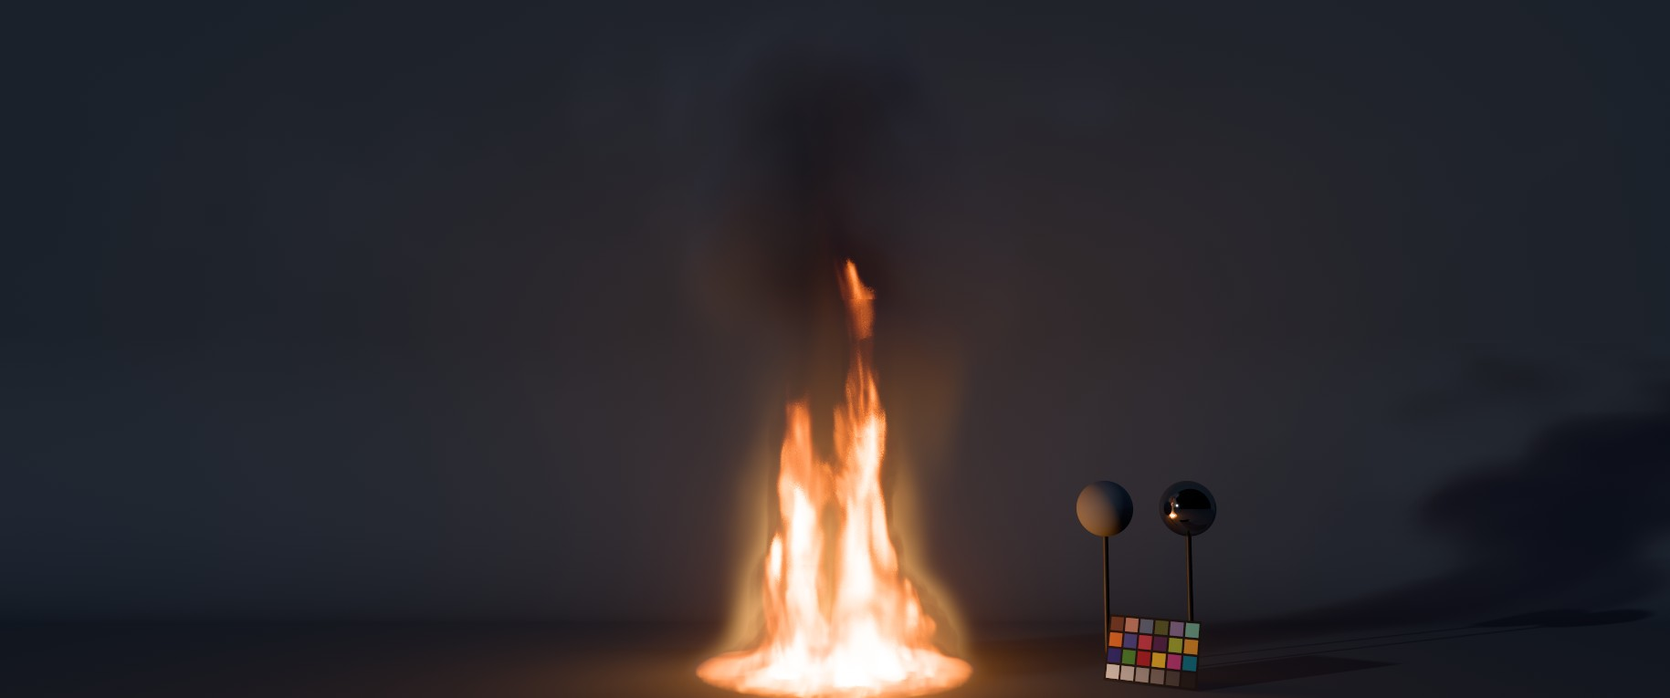
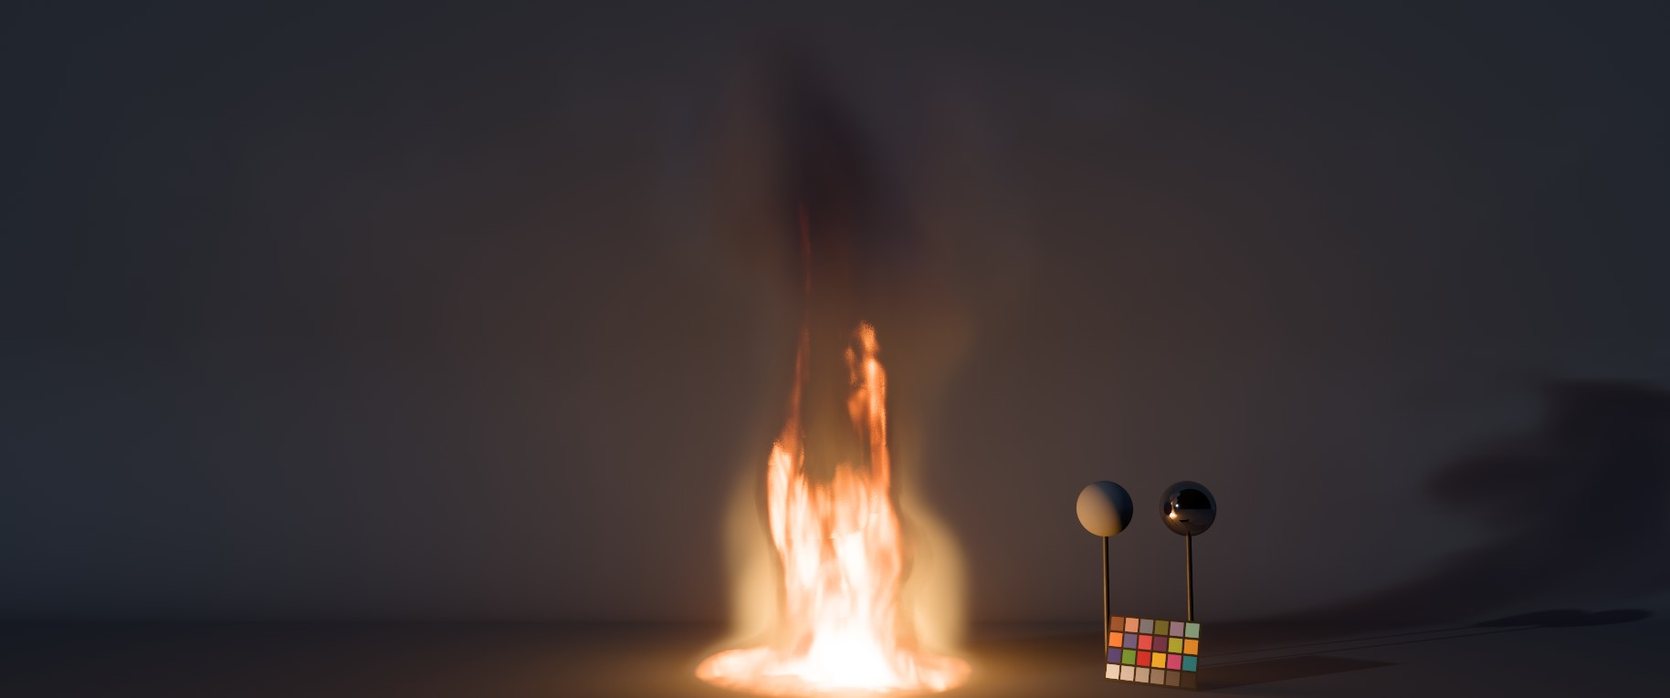
Pyro lab: the flames' scattered light leaves their soot by its own table
The floor beside a bonfire took a third less light scattered by the gas than the path-traced reference gives it.
Split by source (a new reference trace, fire light only, with and without scattering in the gas), nine tenths of
that light is the fire's own, and almost none of it the smoke's: a pass gathering the light the smoke and soot beyond
the flames scatter onto the floor (32 rays from each point of a floor map, through the light volume) added 1% beside
the fire, and was dropped. What was short is the flames' own scattering. Light the soot scatters starts where the
soot stopped it, nearer its edge than the flames that made it, and gets out more easily and more evenly; the live
render let it out as the flames' own light gets out.

The fire sums now march a second table beside the escape table, from the same rays: the share of the light the soot
stops along each way that gets out from where it stopped, onward along the same line, tau e^-tau / (1 - e^-tau). The
light leaving a slice toward a point is its escape that way, plus the scattered share (by the similarity relation's
albedo, a (1 - g) / (1 - a g), of what the soot stops, 1 - the escape table's mean) times the second table that way,
over 1 - albedo (1 - the second table's mean) for the scattering again.

Against the reference, the bonfire's frame by region, preview -49 -> now (the last commit before that in brackets):
[…]

Changed region(s): [[0.374, 0.3007, 0.7168, 1.0], [0.6233, 0.6915, 0.7168, 0.7817], [0.4363, 0.1804, 0.4675, 0.2706]]

diff --git a/components/PyroLab.tsx b/components/PyroLab.tsx
@@ -66,7 +66,7 @@ const TECH_NOTES: [string, string][] = [
   ],
   [
     'Flames',
-    'Most of a fire’s light is its soot’s glow. Hot soot emits what it absorbs times the blackbody radiance of its temperature (Kirchhoff’s law), so a flame’s colour and brightness follow from the simulated temperature and soot alone: Planck’s law through the CIE colour matching functions, in absolute units (a blackbody at 2042 K comes out at 600,000 cd/m², the old definition of the candle). The colours are worked in ACEScg, whose primaries hold a blackbody’s colour at every temperature a flame reaches, where Rec.709’s lose its blue below about 1900 K. The soot’s extinction is the measured 8.7 m²/g of flame smoke and its albedo 0.25, and it absorbs blue more than red (as 1/λ), so it reddens what shines through it. Below about 1000 K its glow is too faint to see, which is where the visible flame ends. A cell’s temperature is an average, and a blackbody’s glow climbs so steeply with temperature that the average glow is far from the glow at the average temperature (the turbulence-radiation interaction), so the renderer adds the temperature fluctuation finer than the grid: its size from the resolved temperature gradient, as large-eddy simulations model a subgrid variance (Pierce and Moin), only its shape from a noise that rises with the flames and churns (Flame detail scales it; 0 renders the cell averages). For the same reason, where fuel is burning the soot radiates at the temperature of the flame sheet it forms in, about 1400 K, rather than its cell’s mean: the burning happens in sheets far thinner than a cell, and the cell spreads their heat over all of it (a thin flame along a burning surface would otherwise never glow). The burning gives off light of its own too: molecules formed excited in the reactions give it up as CH’s blue at 431 nm, C2’s green Swan bands and a faint CO2 continuum (chemiluminescence), in proportion to the heat released. It is the blue of a gas flame, about a ten-thousandth of a lumen per watt of heat (an estimate: no measurement of it turned up), far fainter than glowing soot, so it shows only where there is no soot yet. And soot takes some 20 ms in the hot gas to form (Kumfer, Skeen and Axelbaum), so where burning has only begun, at the flame’s base, the gas is still clear. A wood fire’s soot hides nearly all of the blue at the grid’s scale; a fuel that makes no soot burns all blue (the Alcohol fire), too dim to see in daylight, as alcohol fires are. The fire lights its own smoke, the floor and everything near it: its emitted light is summed on the GPU every step in eight slices of its height, each a point light at its brightness-weighted centre, and each point of the smoke gathers them through the soot in the way, so dense smoke shadows the fire’s light as it does the sun’s; the floor and the balls take the same shadow. The light is summed as the flames are drawn, from the interpolated gas at eight points in each cell rather than each cell’s own temperature: the glow climbs so steeply with temperature that the hottest cells, at the bed, gave several times the light the flames show (the path-traced reference found it). Within a slice, its soot is mixed with its own glow, and how much of the glow gets out depends on the way it goes: every glowing cell’s light is marched a bed’s width through the soot about it toward 26 directions over the sphere (a quarter of them each step), and the shares, weighted by each cell’s light, make a table the smoke, the floor and the set each read in their own direction. A bonfire’s brightest flames sit in a sheet of soot at its bed, and let out two to three times as much of their light a little below the level as along it. Of what the soot stops it scatters a share, mostly onward (the albedo and the anisotropy), and that light gets out as the rest does. Glowing soot also scatters its own glow: where it is thick the light about it nears its blackbody radiance, so a thick flame glows at the full radiance whatever its albedo (Kirchhoff’s law), where it glowed only the share its soot does not scatter (the bonfire’s flames, a fifth dark against the path-traced reference).',
+    'Most of a fire’s light is its soot’s glow. Hot soot emits what it absorbs times the blackbody radiance of its temperature (Kirchhoff’s law), so a flame’s colour and brightness follow from the simulated temperature and soot alone: Planck’s law through the CIE colour matching functions, in absolute units (a blackbody at 2042 K comes out at 600,000 cd/m², the old definition of the candle). The colours are worked in ACEScg, whose primaries hold a blackbody’s colour at every temperature a flame reaches, where Rec.709’s lose its blue below about 1900 K. The soot’s extinction is the measured 8.7 m²/g of flame smoke and its albedo 0.25, and it absorbs blue more than red (as 1/λ), so it reddens what shines through it. Below about 1000 K its glow is too faint to see, which is where the visible flame ends. A cell’s temperature is an average, and a blackbody’s glow climbs so steeply with temperature that the average glow is far from the glow at the average temperature (the turbulence-radiation interaction), so the renderer adds the temperature fluctuation finer than the grid: its size from the resolved temperature gradient, as large-eddy simulations model a subgrid variance (Pierce and Moin), only its shape from a noise that rises with the flames and churns (Flame detail scales it; 0 renders the cell averages). For the same reason, where fuel is burning the soot radiates at the temperature of the flame sheet it forms in, about 1400 K, rather than its cell’s mean: the burning happens in sheets far thinner than a cell, and the cell spreads their heat over all of it (a thin flame along a burning surface would otherwise never glow). The burning gives off light of its own too: molecules formed excited in the reactions give it up as CH’s blue at 431 nm, C2’s green Swan bands and a faint CO2 continuum (chemiluminescence), in proportion to the heat released. It is the blue of a gas flame, about a ten-thousandth of a lumen per watt of heat (an estimate: no measurement of it turned up), far fainter than glowing soot, so it shows only where there is no soot yet. And soot takes some 20 ms in the hot gas to form (Kumfer, Skeen and Axelbaum), so where burning has only begun, at the flame’s base, the gas is still clear. A wood fire’s soot hides nearly all of the blue at the grid’s scale; a fuel that makes no soot burns all blue (the Alcohol fire), too dim to see in daylight, as alcohol fires are. The fire lights its own smoke, the floor and everything near it: its emitted light is summed on the GPU every step in eight slices of its height, each a point light at its brightness-weighted centre, and each point of the smoke gathers them through the soot in the way, so dense smoke shadows the fire’s light as it does the sun’s; the floor and the balls take the same shadow. The light is summed as the flames are drawn, from the interpolated gas at eight points in each cell rather than each cell’s own temperature: the glow climbs so steeply with temperature that the hottest cells, at the bed, gave several times the light the flames show (the path-traced reference found it). Within a slice, its soot is mixed with its own glow, and how much of the glow gets out depends on the way it goes: every glowing cell’s light is marched a bed’s width through the soot about it toward 26 directions over the sphere (a quarter of them each step), and the shares, weighted by each cell’s light, make a table the smoke, the floor and the set each read in their own direction. A bonfire’s brightest flames sit in a sheet of soot at its bed, and let out two to three times as much of their light a little below the level as along it. Of what the soot stops it scatters a share, mostly onward (the albedo and the anisotropy); the rest, scattered every way from where it was stopped, starts nearer the soot’s edge than the flames that made it, and gets out more easily and more evenly, by a second table marched with the first. Glowing soot also scatters its own glow: where it is thick the light about it nears its blackbody radiance, so a thick flame glows at the full radiance whatever its albedo (Kirchhoff’s law), where it glowed only the share its soot does not scatter (the bonfire’s flames, a fifth dark against the path-traced reference).',
   ],
   [
     'Detail',
@@ -103,7 +103,7 @@ const TECH_NOTES: [string, string][] = [
   ],
   [
     'Path-traced reference',
-    'Paused, the Path trace button traces the same frame with its light carried exactly, one path a pixel each frame, averaged, behind a wipe against the live render (drag it). The gas is the live render’s own, step for step: its density, detail and subgrid flame temperature, the soot formed by now and the flame’s blue light, each path at its own moment of the shutter. What the reference carries exactly is what the live render takes shortcuts with: light scattered any number of times through the smoke (the live render folds multiple scattering into octaves of the sun’s light); the fire’s light from the flames themselves, shadowed by the smoke on the way (the live render’s is eight point lights through a light volume at half resolution); the sky through the smoke in every direction (not only straight up); an HDR map in full (not nine spherical harmonics). At every scattering and surface a path samples the sun’s disc, a map’s key or the rig’s softboxes, and the flames: a point drawn in one of eight slices of the fire’s height by its light, chosen from eight candidates in proportion to what each would bring (resampled importance sampling, after Talbot, Cline and Egbert). Paths end by Russian roulette, and the reference stops at 4,096 paths a pixel. The surfaces are the live render’s materials, simplified (the chrome ball a mirror, the rest a matte base under a glossy layer). Checked with it, the live render’s fire light is now within about 45% of the reference’s across the presets (an oil fire in daylight within 15%; a campfire’s smoke and floor up to 45% darker), where it was up to seven times too bright. The smoke lit by the sun was 30 to 60% too bright, dark smoke the most, from the octaves, which added the same three quarters again to thin smoke as to thick and to soot as to steam. Split by where the light comes from (the reference can leave out the floor, the sky or the sun, or keep only light scattered once), the smoke’s light showed four more gaps. Its shadows came from the coarse grid while the camera saw the finer upres smoke, so the densest smoke caught a third too much sun. The sky came through the depth straight up only, so the middle of a plume took a fifth too much and the smoke under its cap a third too little. And the sky’s light scattered more than once (5 to 10% of a plume’s light) and the floor’s (1 to 9%) were missing. With those fixed and the octaves fitted to plumes of albedo 0.2, 0.6 and 0.95, a plume’s thin edges are within 8% of the reference, where they were 10% short, and the error over the smoke presets falls by half to 70%. On the bonfire, with scattering in the gas left out of both, the live flames’ glow matched the reference’s; what they lacked was the light their soot scatters of its own glow, and the cyc’s floor took the whole sky though the wall hides half of it, and no light from the wall. With those in, the bonfire’s flames are within 2% of the reference and its cyc within 5%, where they were 20% and 10% short, and its far floor, a fifth too bright, is within 5%. The wall behind the fire was a sixth dark from a shadow taken along the wrong line, straight up through the plume above the flames; with that fixed, every part of the bonfire’s frame is within 8% of the reference. Taken apart, though, its fire’s direct light ran half again too strong, a sooty flame letting out less of its light than the uniformly glowing sphere the live render took it for, while the glow its soot scatters out was missing, and on its wall and floor the two offset. Checked slice by slice against every glowing cell’s light marched through the soot to each point, the sphere let out 1.7 times a bonfire’s light and six times an oil fire’s; the table of directions is within a tenth. Against the reference, the bonfire’s direct light on its surfaces is now some 15% short where it was half again over, and with scattering in the gas left out of both, every part of its frame is within 9%. With it in, every part is within 9% too (within 8% while the two errors offset), the light the soot scatters onto the floor beside the fire still a third short. A campfire’s surfaces, a quarter dark in the whole frame, are within 15%: what was left short on one side is the floor right beside its bed, where its flames sit to one side of each slice’s centre, which a point light per slice cannot follow. A fire in wind’s error falls by more than two thirds.',
+    'Paused, the Path trace button traces the same frame with its light carried exactly, one path a pixel each frame, averaged, behind a wipe against the live render (drag it). The gas is the live render’s own, step for step: its density, detail and subgrid flame temperature, the soot formed by now and the flame’s blue light, each path at its own moment of the shutter. What the reference carries exactly is what the live render takes shortcuts with: light scattered any number of times through the smoke (the live render folds multiple scattering into octaves of the sun’s light); the fire’s light from the flames themselves, shadowed by the smoke on the way (the live render’s is eight point lights through a light volume at half resolution); the sky through the smoke in every direction (not only straight up); an HDR map in full (not nine spherical harmonics). At every scattering and surface a path samples the sun’s disc, a map’s key or the rig’s softboxes, and the flames: a point drawn in one of eight slices of the fire’s height by its light, chosen from eight candidates in proportion to what each would bring (resampled importance sampling, after Talbot, Cline and Egbert). Paths end by Russian roulette, and the reference stops at 4,096 paths a pixel. The surfaces are the live render’s materials, simplified (the chrome ball a mirror, the rest a matte base under a glossy layer). Checked with it, the live render’s fire light is now within about 45% of the reference’s across the presets (an oil fire in daylight within 15%; a campfire’s smoke and floor up to 45% darker), where it was up to seven times too bright. The smoke lit by the sun was 30 to 60% too bright, dark smoke the most, from the octaves, which added the same three quarters again to thin smoke as to thick and to soot as to steam. Split by where the light comes from (the reference can leave out the floor, the sky or the sun, or keep only light scattered once), the smoke’s light showed four more gaps. Its shadows came from the coarse grid while the camera saw the finer upres smoke, so the densest smoke caught a third too much sun. The sky came through the depth straight up only, so the middle of a plume took a fifth too much and the smoke under its cap a third too little. And the sky’s light scattered more than once (5 to 10% of a plume’s light) and the floor’s (1 to 9%) were missing. With those fixed and the octaves fitted to plumes of albedo 0.2, 0.6 and 0.95, a plume’s thin edges are within 8% of the reference, where they were 10% short, and the error over the smoke presets falls by half to 70%. On the bonfire, with scattering in the gas left out of both, the live flames’ glow matched the reference’s; what they lacked was the light their soot scatters of its own glow, and the cyc’s floor took the whole sky though the wall hides half of it, and no light from the wall. With those in, the bonfire’s flames are within 2% of the reference and its cyc within 5%, where they were 20% and 10% short, and its far floor, a fifth too bright, is within 5%. The wall behind the fire was a sixth dark from a shadow taken along the wrong line, straight up through the plume above the flames; with that fixed, every part of the bonfire’s frame is within 8% of the reference. Taken apart, though, its fire’s direct light ran half again too strong, a sooty flame letting out less of its light than the uniformly glowing sphere the live render took it for, while the glow its soot scatters out was missing, and on its wall and floor the two offset. Checked slice by slice against every glowing cell’s light marched through the soot to each point, the sphere let out 1.7 times a bonfire’s light and six times an oil fire’s; the table of directions is within a tenth. Against the reference, the bonfire’s direct light on its surfaces is now some 15% short where it was half again over, and with scattering in the gas left out of both, every part of its frame is within 9%. Split by where it comes from, nine tenths of the light the gas scatters onto the floor beside the fire is the fire’s own, scattered by the flames’ soot rather than the smoke above; with that light leaving the soot as scattered light does, every part of the bonfire’s frame is within 6% (within 8% while the two errors offset). A campfire’s surfaces, a quarter dark in the whole frame, are within 15%: what was left short on one side is the floor right beside its bed, where its flames sit to one side of each slice’s centre, which a point light per slice cannot follow. A fire in wind’s error falls by more than two thirds.',
   ],
   [
     'Export',

diff --git a/components/pyro/wgsl.ts b/components/pyro/wgsl.ts
@@ -16,25 +16,27 @@ const ESCAPE_WEIGHTS = (() => {
   return m.map((_, i) => (m[Math.min(i + 1, m.length - 1)] - m[Math.max(i - 1, 0)]) / 4)
 })()
 
-// The share of slice b's light that gets out of its own soot toward p (bandOut), from the escape table in the fire's
+// The share of slice b's light that gets out of its own soot toward p (bandOut), from the escape tables in the fire's
 // sums (FIRE_SUM): read linearly in the sine of the elevation between the rings (and straight up and down), and in
 // azimuth between the eight by the diamond angle (|z| over |x| + |z| round the quadrants, exact at the eight and with
-// no inverse trigonometry: each surface reads the table sixteen times a pixel), with the light the soot scatters
-// back out. The soot scatters what it stops by its albedo, and mostly onward (the lab's anisotropy): by the similarity
-// relation the table counts the onward share as never stopped (FIRE_SUM), and the rest is scattered evenly every way,
-// at the albedo a (1 - g) / (1 - a g). Of the share the soot stops (1 - the table's mean over the sphere), that much
-// goes on and gets out as the rest did, and so on: 1 / (1 - albedo (1 - mean)) of the light all told. (Without the
-// scattering, the floor beside a bonfire took a third less light than the path-traced reference; taken as scattered
-// evenly, a sixth less; so, an eighth.) Within a bed's radius of the slice's centre, Beer's law over the share of it
-// crossed. (For the light pass, whose binding is fireSums, and the renderers, fireLight.)
+// no inverse trigonometry: each surface reads the tables thirty-two times a pixel). With the light the soot scatters
+// back out: it scatters what it stops by its albedo, and mostly onward (the lab's anisotropy). By the similarity
+// relation the escape table counts the onward share as never stopped (FIRE_SUM), and the rest is scattered evenly
+// every way, at the albedo a (1 - g) / (1 - a g). Of the share the soot stops (1 - the table's mean over the sphere),
+// that much is scattered from where it was stopped, and gets out by the second table, the share of such light that
+// leaves each way; what the soot stops of that, again, and so on: albedo (1 - mean) / (1 - albedo (1 - its mean)) of
+// the light, each way by the second table. (Scattered light starts nearer the soot's edge than the flames that made
+// it, and gets out more easily and more evenly. Let out as the flames' own light is, the floor beside a bonfire had
+// seven tenths of the scattered light the path-traced reference gives it, and the wall and smoke beside the fire were
+// 9% dark.) Within a bed's radius of the slice's centre, Beer's law over the share of it crossed. (For the light pass,
+// whose binding is fireSums, and the renderers, fireLight.)
 function bandOutWgsl(sums: string) {
   return /* wgsl */ `
 fn escTab(base: u32, k: u32) -> f32 { return ${sums}[base + k / 4u][k % 4u]; }
 fn escRing(base: u32, r: u32, a0: u32, a1: u32, fa: f32) -> f32 {
   return mix(escTab(base, 8u * r + a0), escTab(base, 8u * r + a1), fa);
 }
-fn bandEscape(b: u32, u: vec3<f32>) -> f32 {
-  let base = ESCAPE_BASE + ESCAPE_STRIDE * b;
+fn bandEscape(base: u32, u: vec3<f32>) -> f32 {
   let ax = abs(u.x);
   let az2 = abs(u.z);
   let q = select(az2 / (ax + az2), 0.0, ax + az2 < 1e-6);
@@ -58,8 +60,12 @@ fn bandOut(b: u32, p: vec3<f32>) -> f32 {
   let d = p - ${sums}[4u + 2u * b].xyz;
   let dist = max(length(d), 1e-6);
   let albedo = R.skyCol.w * (1.0 - R.sunDir.w) / max(1.0 - R.skyCol.w * R.sunDir.w, 1e-3);
-  let back = 1.0 / (1.0 - albedo * (1.0 - ${sums}[ESCAPE_BASE + ESCAPE_STRIDE * b + 6u].z));
-  let e = clamp(bandEscape(b, d / dist) * back, 1e-6, 1.0);
+  let base = ESCAPE_BASE + ESCAPE_STRIDE * b;
+  let base2 = ESCAPE_BASE2 + ESCAPE_STRIDE * b;
+  let mean = ${sums}[base + 6u].z;
+  let meanS = ${sums}[base2 + 6u].z;
+  let scat = albedo * (1.0 - mean) / (1.0 - albedo * (1.0 - meanS));
+  let e = clamp(bandEscape(base, d / dist) + scat * bandEscape(base2, d / dist), 1e-6, 1.0);
   let rad = max(P.src.w, 0.1);
   return select(e, pow(e, dist / rad), dist < rad);
 }
@@ -2107,8 +2113,9 @@ fn discVis(a: f32, pen: f32, miss: f32) -> f32 {
 // soot, over a bed's radius, toward each of ESCAPE_DIRS directions: rings at ESCAPE_RINGS degrees of elevation, each
 // toward eight azimuths from +x round toward +z (8 ring + azimuth), then straight up and straight down, and its mean
 // over the sphere. Seven entries of the sums per slice, after the slices' own: the rings, two entries each, then (up,
-// down, mean). (Four azimuths missed a flame sheet lying across the diagonal: the bonfire's light fell a fifth short on
-// one side of its cyc and a quarter over on the other.) A step marches a quarter of the directions, those of one
+// down, mean); the scattered light's table follows the slices' escape tables (ESCAPE_BASE2), laid out the same. (Four
+// azimuths missed a flame sheet lying across the diagonal: the bonfire's light fell a fifth short on one side of its
+// cyc and a quarter over on the other.) A step marches a quarter of the directions, those of one
 // component of every entry, in turn (ESCAPE_PHASES), and keeps the rest from the steps before: all of them every step
 // added some 1.6 ms, a quarter adds 0.4, and the share that gets out changes far more slowly than the flames flicker.
 const ESCAPE_DIRS = 26u;
@@ -2117,6 +2124,7 @@ const ESCAPE_RINGS = array<f32, 3>(${ESCAPE_RINGS.map(wf).join(', ')});
 const ESCAPE_SINES = array<f32, 3>(${ESCAPE_SINES.map(wf).join(', ')});
 const ESCAPE_BASE = 3u + 2u * FIRE_BANDS;
 const ESCAPE_STRIDE = 7u;
+const ESCAPE_BASE2 = 3u + 9u * FIRE_BANDS; // (the scattered light's table)
 fn escapeDir(k: u32) -> vec3<f32> {
   if (k == 24u) { return vec3<f32>(0.0, 1.0, 0.0); }
   if (k == 25u) { return vec3<f32>(0.0, -1.0, 0.0); }
@@ -2353,7 +2361,8 @@ export const FIRE_SUM_TOTAL = /* wgsl */ `
 @group(0) @binding(1) var<storage, read> partial: array<vec4<f32>>;
 // 0: the emitted intensity summed over cells, per unit of cell volume (rgb, and its luminance); 1: its centre; 2: the
 // bed's area (m2) and the heat release rate (W); then for each of FIRE_BANDS slices of the grid's height, its emitted
-// intensity (as 0) and its centre; then each slice's escape table, seven entries (RENDER_COMMON's ESCAPE_DIRS).
+// intensity (as 0) and its centre; then each slice's escape table, seven entries (RENDER_COMMON's ESCAPE_DIRS), and
+// then each slice's scattered light's table, the same.
 @group(0) @binding(2) var<storage, read_write> result: array<vec4<f32>>;
 const FIRE_BANDS = ${FIRE_BANDS}u;
 var<workgroup> sE: array<vec4<f32>, 256>;
@@ -2371,14 +2380,18 @@ fn main(@builtin(local_invocation_index) li: u32, @builtin(workgroup_id) wg: vec
   var b = vec4<f32>(0.0);
   var x0 = vec4<f32>(0.0);
   var x1 = vec4<f32>(0.0);
+  var x2 = vec4<f32>(0.0);
+  var x3 = vec4<f32>(0.0);
   let phase = u32(partial[1].w); // (the step's quarter of the escape table, as FIRE_SUM marched it)
   for (var k = li; k < C.x; k += 256u) {
     if (band >= 0 && i32(((k / C.y) % C.z) * FIRE_BANDS / C.z) != band) { continue; }
-    e += partial[5u * k];
-    p += partial[5u * k + 1u];
-    b += partial[5u * k + 2u];
-    x0 += partial[5u * k + 3u];
-    x1 += partial[5u * k + 4u];
+    e += partial[7u * k];
+    p += partial[7u * k + 1u];
+    b += partial[7u * k + 2u];
+    x0 += partial[7u * k + 3u];
+    x1 += partial[7u * k + 4u];
+    x2 += partial[7u * k + 5u];
+    x3 += partial[7u * k + 6u];
   }
   sE[li] = e;
   sP[li] = p;
@@ -2415,24 +2428,40 @@ fn main(@builtin(local_invocation_index) li: u32, @builtin(workgroup_id) wg: vec
     }
     workgroupBarrier();
   }
+  var marched = 0.0;
   if (li == 0u) {
     // This step's directions (k = 4 j + phase: component phase of each entry), over the light of the cells marched
     // (with none, as after a restart, when the last step's sums are another fire's, all of it gets out); then the
     // mean over the sphere from the whole table: each ring's eight azimuths averaged, weighted by the share of the
     // sphere it stands for.
-    let marched = sB[0].w;
-    let base = 3u + 2u * FIRE_BANDS + 7u * u32(band);
-    for (var j = 0u; j < 7u; j++) {
-      if (4u * j + phase < 26u) { // (RENDER_COMMON's ESCAPE_DIRS)
-        let v = select(sB[0][j % 4u], sP[0][j % 4u], j < 4u);
-        result[base + j][phase] = select(1.0, v / marched, marched > 0.0);
-      }
-    }
-    let w = array<f32, 5>(${ESCAPE_WEIGHTS.map(wf).join(', ')});
-    var mean = w[0] * result[base + 6u].y + w[4] * result[base + 6u].x;
-    for (var r = 0u; r < 3u; r++) { mean += w[r + 1u] * 0.125 * dot(result[base + 2u * r] + result[base + 2u * r + 1u], vec4<f32>(1.0)); }
-    result[base + 6u].z = mean;
+    marched = sB[0].w;
+    writeTable(3u + 2u * FIRE_BANDS + 7u * u32(band), phase, sP[0], sB[0], marched);
   }
+  // Then the scattered light's table the same way (after the escape table, the same layout).
+  workgroupBarrier();
+  sP[li] = x2;
+  sB[li] = x3;
+  workgroupBarrier();
+  for (var st = 128u; st > 0u; st = st >> 1u) {
+    if (li < st) {
+      sP[li] += sP[li + st];
+      sB[li] += sB[li + st];
+    }
+    workgroupBarrier();
+  }
+  if (li == 0u) { writeTable(3u + 9u * FIRE_BANDS + 7u * u32(band), phase, sP[0], sB[0], marched); }
+}
+fn writeTable(base: u32, phase: u32, lo: vec4<f32>, hi: vec4<f32>, marched: f32) {
+  for (var j = 0u; j < 7u; j++) {
+    if (4u * j + phase < 26u) { // (RENDER_COMMON's ESCAPE_DIRS)
+      let v = select(hi[j % 4u], lo[j % 4u], j < 4u);
+      result[base + j][phase] = select(1.0, v / marched, marched > 0.0);
+    }
+  }
+  let w = array<f32, 5>(${ESCAPE_WEIGHTS.map(wf).join(', ')});
+  var mean = w[0] * result[base + 6u].y + w[4] * result[base + 6u].x;
+  for (var r = 0u; r < 3u; r++) { mean += w[r + 1u] * 0.125 * dot(result[base + 2u * r] + result[base + 2u * r + 1u], vec4<f32>(1.0)); }
+  result[base + 6u].z = mean;
 }
 `
 
@@ -3665,7 +3694,7 @@ ${RENDER_LIB}
 var<workgroup> sumE: array<vec4<f32>, 64>;
 var<workgroup> sumP: array<vec4<f32>, 64>;
 var<workgroup> sumB: array<vec4<f32>, 64>;
-var<workgroup> sumX: array<vec4<f32>, 128>; // this step's quarter of the escape table, two per cell
+var<workgroup> sumX: array<vec4<f32>, 256>; // this step's quarter of the two escape tables, four per cell
 
 // Each cell's glow as the image pass draws it (gasAt): the mean of eight points, one in each eighth of the cell, of its
 // interpolated soot and temperature, its detail and its subgrid flame temperature, and the flame's own light. A
@@ -3718,6 +3747,8 @@ fn main(@builtin(global_invocation_id) id: vec3<u32>, @builtin(local_invocation_
   let phase = P.dims.w % ESCAPE_PHASES;
   var x0 = vec4<f32>(0.0);
   var x1 = vec4<f32>(0.0);
+  var x2 = vec4<f32>(0.0);
+  var x3 = vec4<f32>(0.0);
   let slice = fireLight[3u + 2u * (wid.y * FIRE_BANDS / nw.y)].w;
   if (lum > 0.0 && lum >= ESCAPE_SKIP * slice) {
     let w = worldOf(vec3<f32>(id) + 0.5);
@@ -3737,34 +3768,39 @@ fn main(@builtin(global_invocation_id) id: vec3<u32>, @builtin(local_invocation_
         if (t > reach) { break; }
         od += sootSig(w + dir * t);
       }
-      let v = lum * exp(-od * ds * ch);
-      if (j < 4u) { x0[j] = v; } else { x1[j - 4u] = v; }
+      // (And the share of what the soot stops on the way that gets out from where it stopped, onward along the same
+      // line: tau e^-tau / (1 - e^-tau).)
+      let tau = od * ds * ch;
+      let tr = exp(-tau);
+      let v = lum * tr;
+      let vs = lum * select(tau * tr / max(1.0 - tr, 1e-6), 1.0 - 0.5 * tau, tau < 1e-3);
+      if (j < 4u) { x0[j] = v; x2[j] = vs; } else { x1[j - 4u] = v; x3[j - 4u] = vs; }
     }
     x1.w = lum;
   }
   sumE[li] = vec4<f32>(e, lum);
   sumP[li] = vec4<f32>(worldOf(vec3<f32>(id) + 0.5) * lum, 0.0);
   sumB[li] = b;
-  sumX[2u * li] = x0;
-  sumX[2u * li + 1u] = x1;
+  sumX[4u * li] = x0;
+  sumX[4u * li + 1u] = x1;
+  sumX[4u * li + 2u] = x2;
+  sumX[4u * li + 3u] = x3;
   workgroupBarrier();
   for (var st = 32u; st > 0u; st = st >> 1u) {
     if (li < st) {
       sumE[li] += sumE[li + st];
       sumP[li] += sumP[li + st];
       sumB[li] += sumB[li + st];
-      sumX[2u * li] += sumX[2u * (li + st)];
-      sumX[2u * li + 1u] += sumX[2u * (li + st) + 1u];
+      for (var j = 0u; j < 4u; j++) { sumX[4u * li + j] += sumX[4u * (li + st) + j]; }
     }
     workgroupBarrier();
   }
   if (li == 0u) {
     let k = wid.x + nw.x * (wid.y + nw.y * wid.z);
-    partial[5u * k] = sumE[0];
-    partial[5u * k + 1u] = vec4<f32>(sumP[0].xyz, f32(phase)); // (the phase, for the totals)
-    partial[5u * k + 2u] = sumB[0];
-    partial[5u * k + 3u] = sumX[0];
-    partial[5u * k + 4u] = sumX[1];
+    partial[7u * k] = sumE[0];
+    partial[7u * k + 1u] = vec4<f32>(sumP[0].xyz, f32(phase)); // (the phase, for the totals)
+    partial[7u * k + 2u] = sumB[0];
+    for (var j = 0u; j < 4u; j++) { partial[7u * k + 3u + j] = sumX[j]; }
   }
 }
 `

diff --git a/components/pyro/engine.ts b/components/pyro/engine.ts
@@ -992,8 +992,8 @@ export class PyroEngine {
     }
     // The fire's light: per-workgroup partial sums, then the total (intensity and centre), read by the renderer.
     const groups = Math.ceil(n[0] / 4) * Math.ceil(n[1] / 4) * Math.ceil(n[2] / 4)
-    const firePartial = storage(groups * 20)
-    const fireLight = d.createBuffer({ size: (3 + 9 * FIRE_BANDS) * 16, usage: GPUBufferUsage.STORAGE | GPUBufferUsage.COPY_SRC | GPUBufferUsage.COPY_DST })
+    const firePartial = storage(groups * 28)
+    const fireLight = d.createBuffer({ size: (3 + 16 * FIRE_BANDS) * 16, usage: GPUBufferUsage.STORAGE | GPUBufferUsage.COPY_SRC | GPUBufferUsage.COPY_DST })
     // The heat release rate in each cell (W/m3), from the step's burning: for the expansion, the sums and validation.
     const hrr = d.createBuffer({ size: cells * 4, usage: GPUBufferUsage.STORAGE | GPUBufferUsage.COPY_SRC })
     // A fire's mass keeping: the volume each cell's gas was spread over, and the ratio its advection is scaled by.
